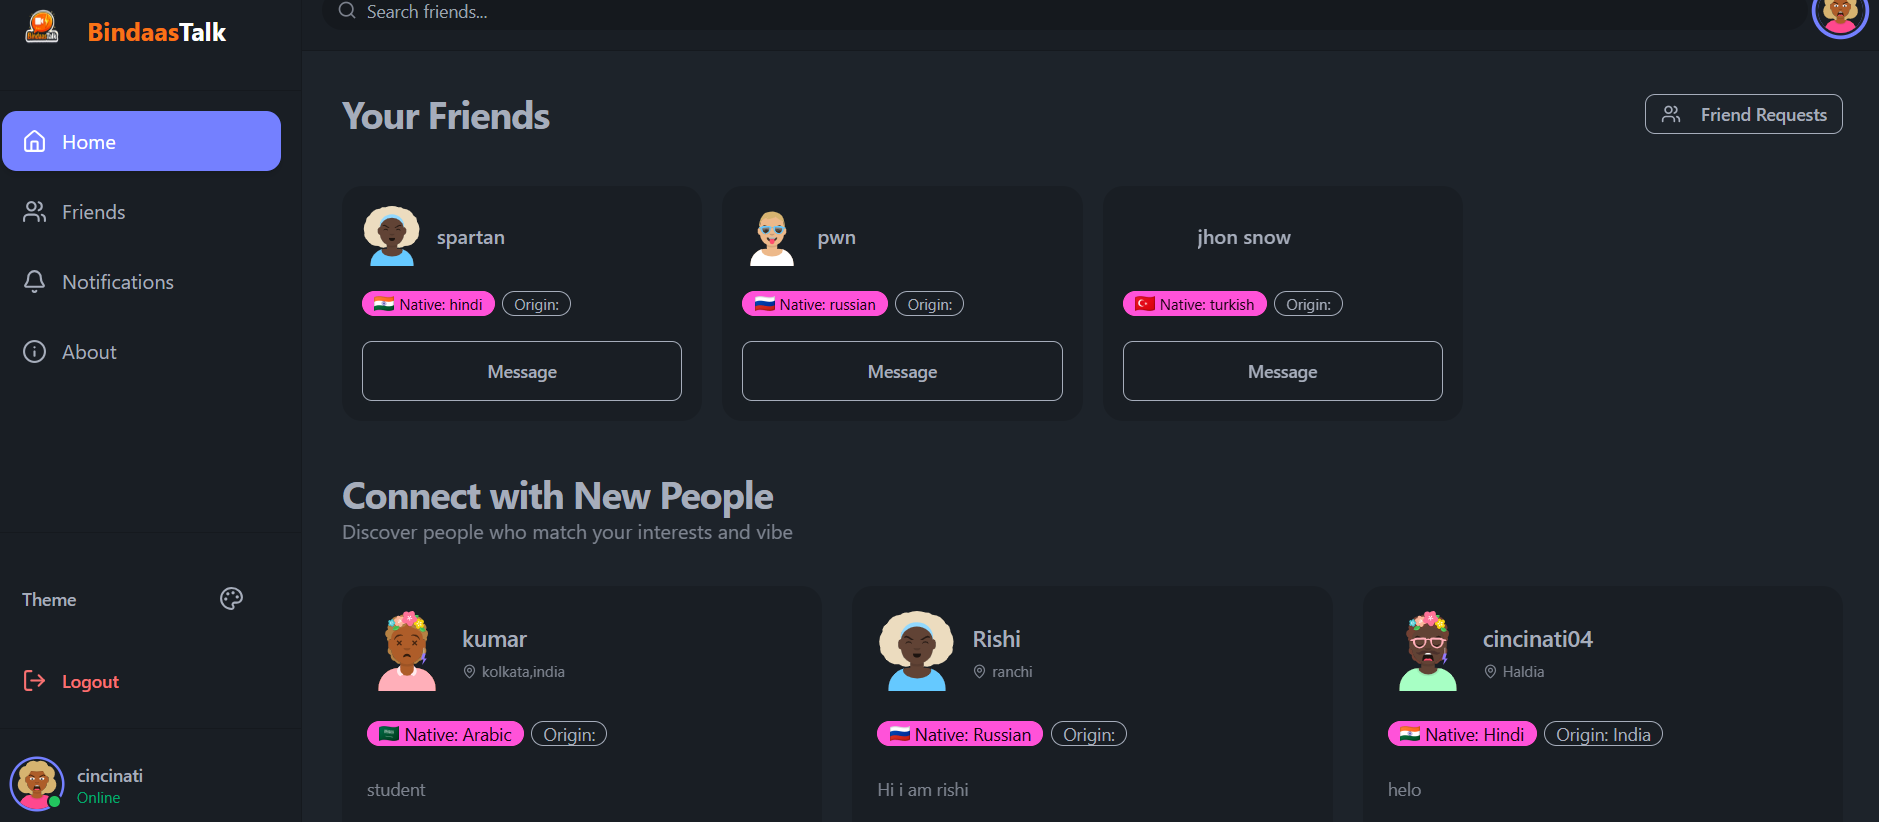
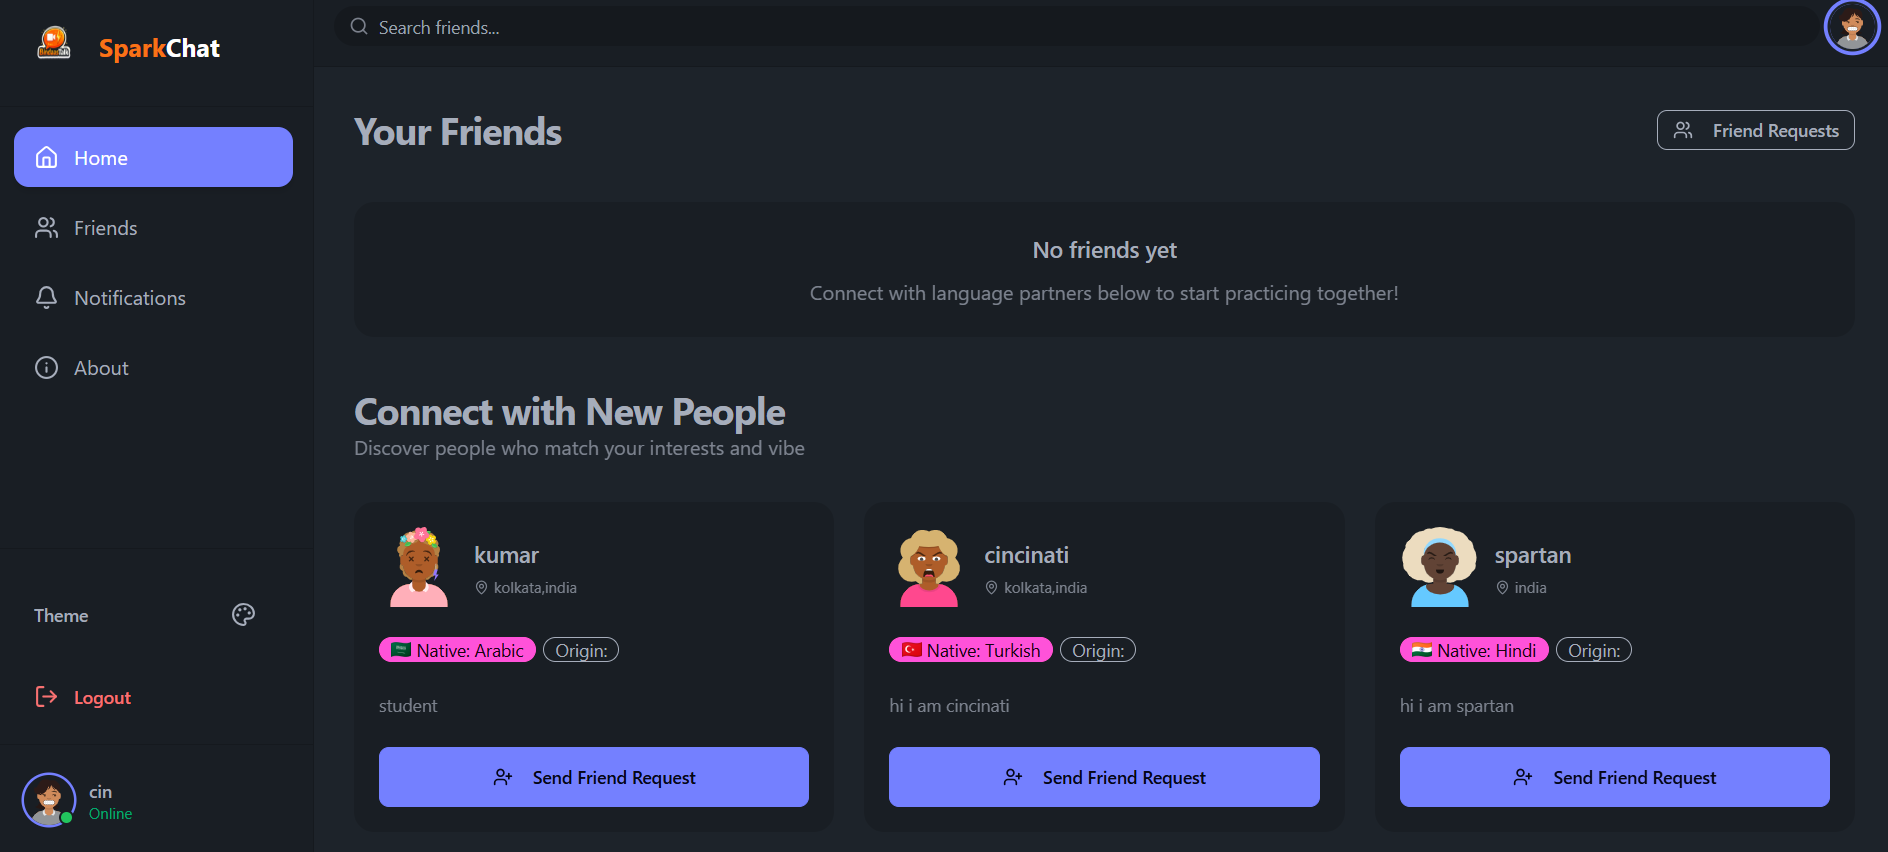
update name

diff --git a/client/src/pages/About.jsx b/client/src/pages/About.jsx
@@ -10,7 +10,7 @@ const About = () => {
           <Logo />
         </div>
         <h1 className="text-3xl md:text-4xl font-bold">
-          About BindaasTalk
+          About SparkChat
         </h1>
         <p className="opacity-70 mt-2 max-w-xl mx-auto">
           Connect, chat, and build real conversations with people around the world.
@@ -45,7 +45,7 @@ const About = () => {
       <div className="text-center max-w-2xl mx-auto mb-12">
         <h2 className="text-2xl font-semibold mb-3">Our Mission</h2>
         <p className="opacity-70">
-          At BindaasTalk, we aim to make communication simple, fun, and accessible.
+          At SparkChat, we aim to make communication simple, fun, and accessible.
           Whether it's chatting or video calling, we help people stay connected anytime, anywhere.
         </p>
       </div>

diff --git a/server/src/lib/sendEmail.js b/server/src/lib/sendEmail.js
@@ -3,12 +3,12 @@ import { transporter } from "./mail.js";
 export const sendWelcomeEmail = async (email, name) => {
   try {
     await transporter.sendMail({
-      from: `"BindaasTalk" <${process.env.EMAIL_USER}>`,
+      from: `"SparkChat" <${process.env.EMAIL_USER}>`,
       to: email,
-      subject: "Welcome to BindaasTalk 🎉",
+      subject: "Welcome to SparkChat 🎉",
       html: `
         <h2>Hey ${name} 👋</h2>
-        <p>Welcome to <b>BindaasTalk</b>!</p>
+        <p>Welcome to <b>SparkChat</b>!</p>
         <p>Start chatting and connecting with people worldwide 🚀</p>
       `,
     });

diff --git a/client/src/components/Sidebar.jsx b/client/src/components/Sidebar.jsx
@@ -30,8 +30,8 @@ const Sidebar = () => {
         <Link to="/" className="flex items-center gap-2" onClick={() => setIsOpen(false)}>
           <img src="/logo.png" alt="logo" className="w-14 h-14" />
           <span className="text-xl font-bold">
-            <span className="text-orange-500">Bindaas</span>
-            <span className="text-white">Talk</span>
+            <span className="text-orange-500">Spark</span>
+            <span className="text-white">Chat</span>
           </span>
         </Link>
         {/* Close button - mobile only */}

diff --git a/client/src/components/logo.jsx b/client/src/components/logo.jsx
@@ -12,8 +12,8 @@ const Logo = ({ size = 80, textSize = "text-3xl" }) => {
 
       {/* Logo Text */}
       <h1 className={`${textSize} font-extrabold font-mono tracking-wide`}>
-        <span className="text-orange-300">Bindaas</span>
-        <span className="text-white">Talk</span>
+        <span className="text-orange-300">Spark</span>
+        <span className="text-white">Chat</span>
       </h1>
 
     </div>

diff --git a/client/src/pages/Signup.jsx b/client/src/pages/Signup.jsx
@@ -64,7 +64,7 @@ const SignUpPage = () => {
                     Create an Account
                   </h2>
                   <p className="text-sm opacity-70">
-                    Join BindaasTalk and experience seamless real-time chat and video conversations.
+                    Join SparkChat and experience seamless real-time chat and video conversations.
                   </p>
                 </div>
 

diff --git a/client/index.html b/client/index.html
@@ -4,7 +4,7 @@
     <meta charset="UTF-8" />
     <link rel="icon" href="./public/logo.png">
     <meta name="viewport" content="width=device-width, initial-scale=1.0" />
-    <title>BindassTalk - A Social App</title>
+    <title>SparkChat - A Social App</title>
   </head>
   <body>
     <div id="root"></div>
